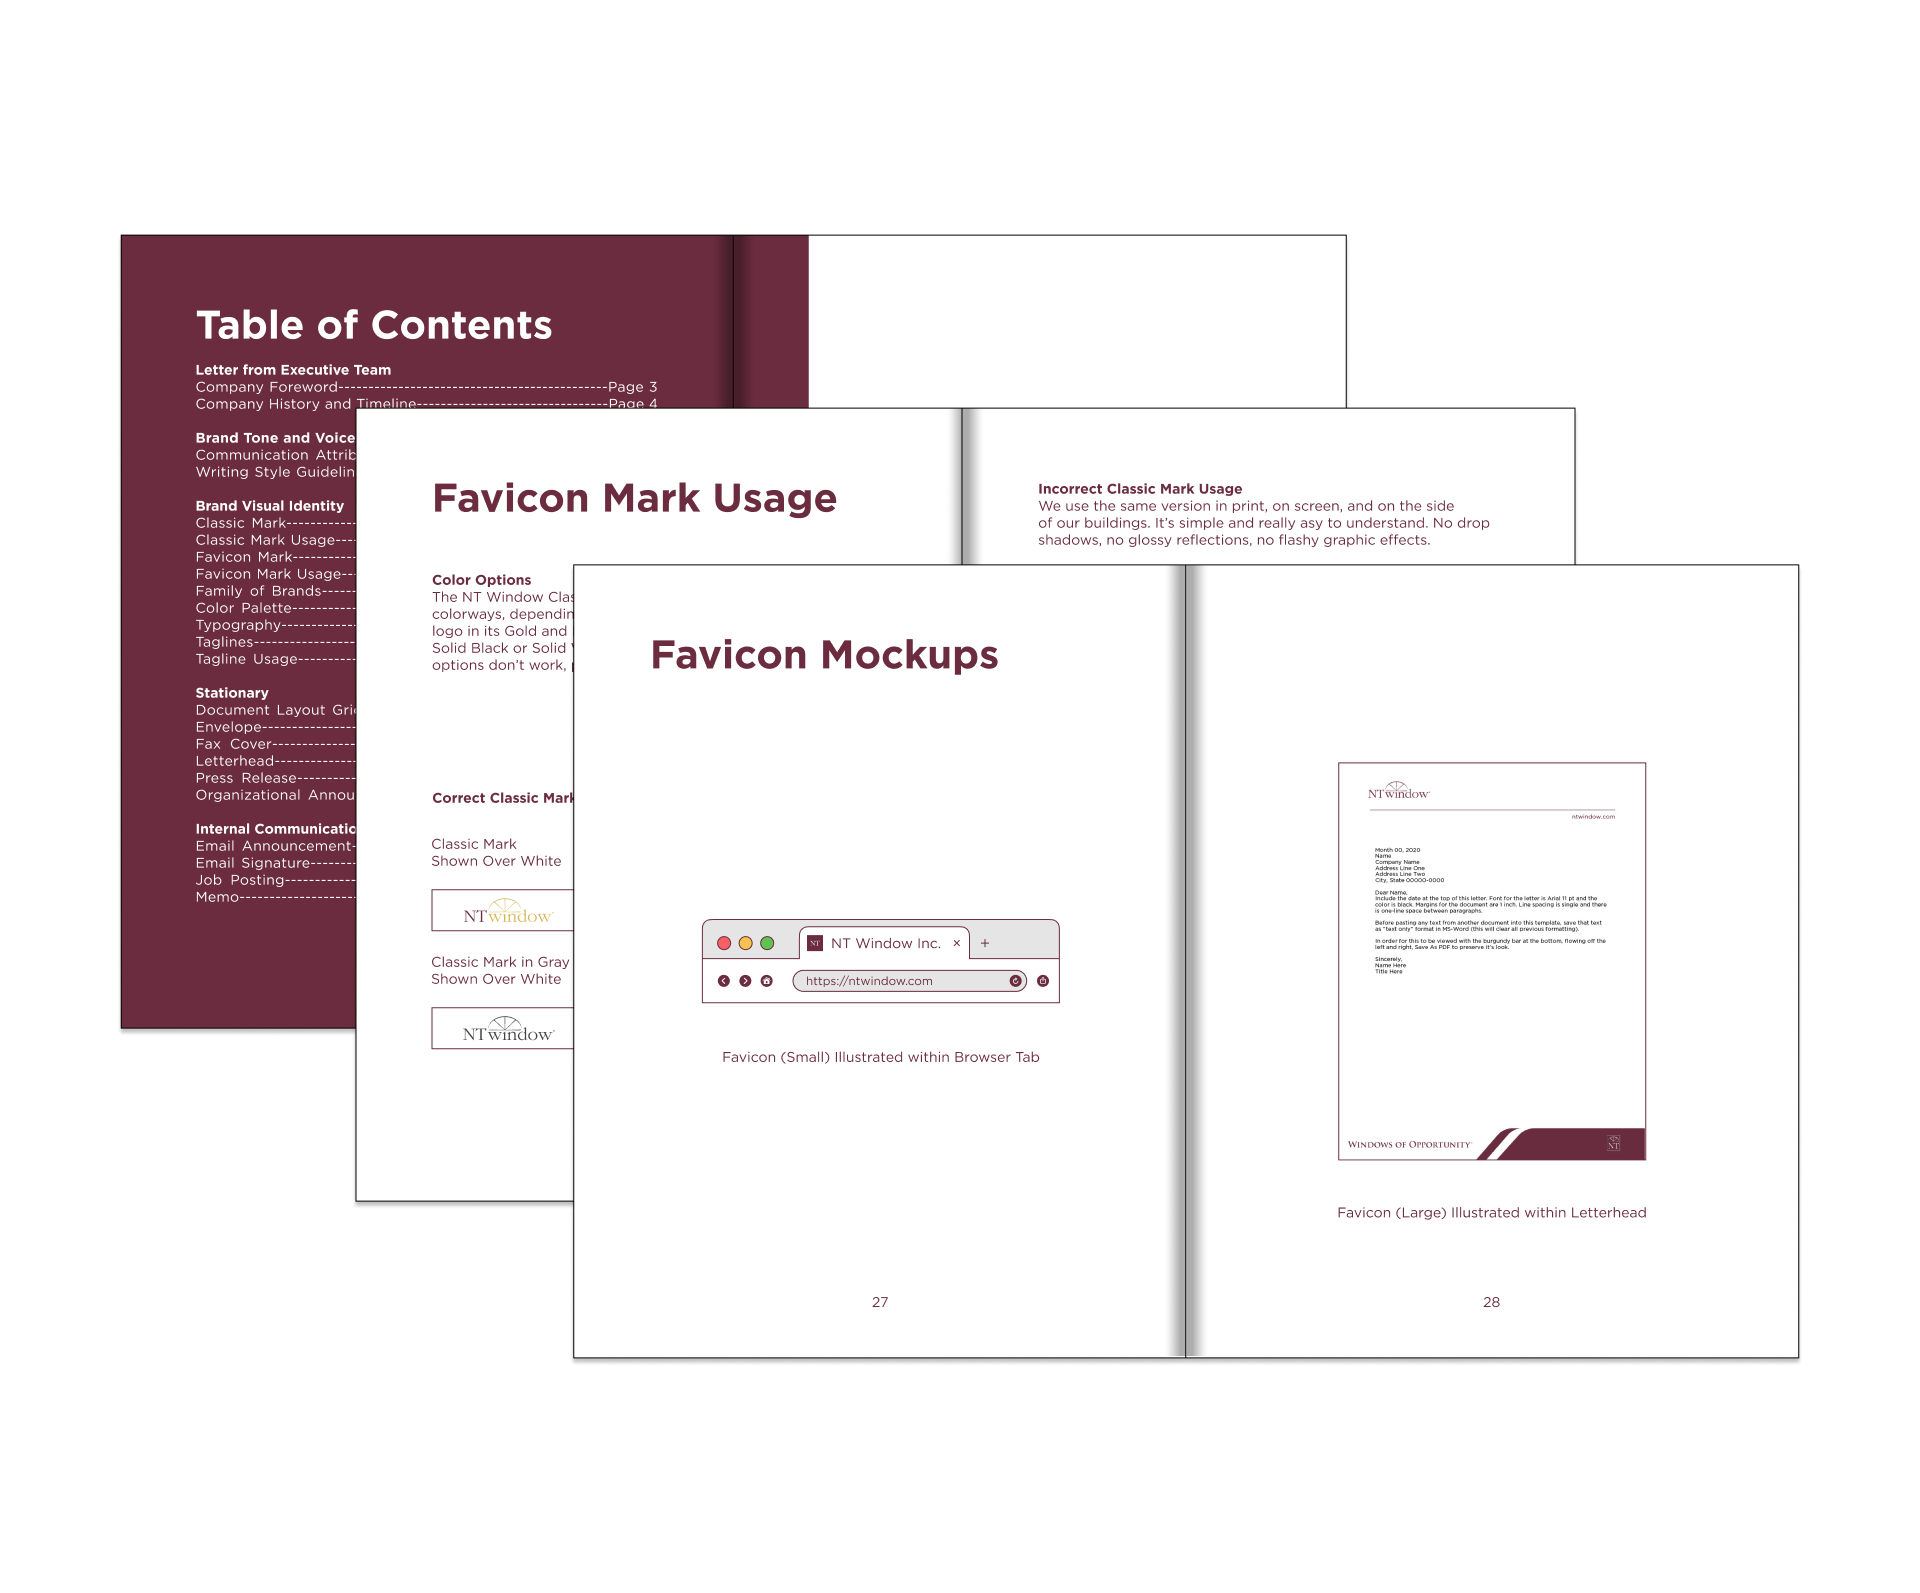
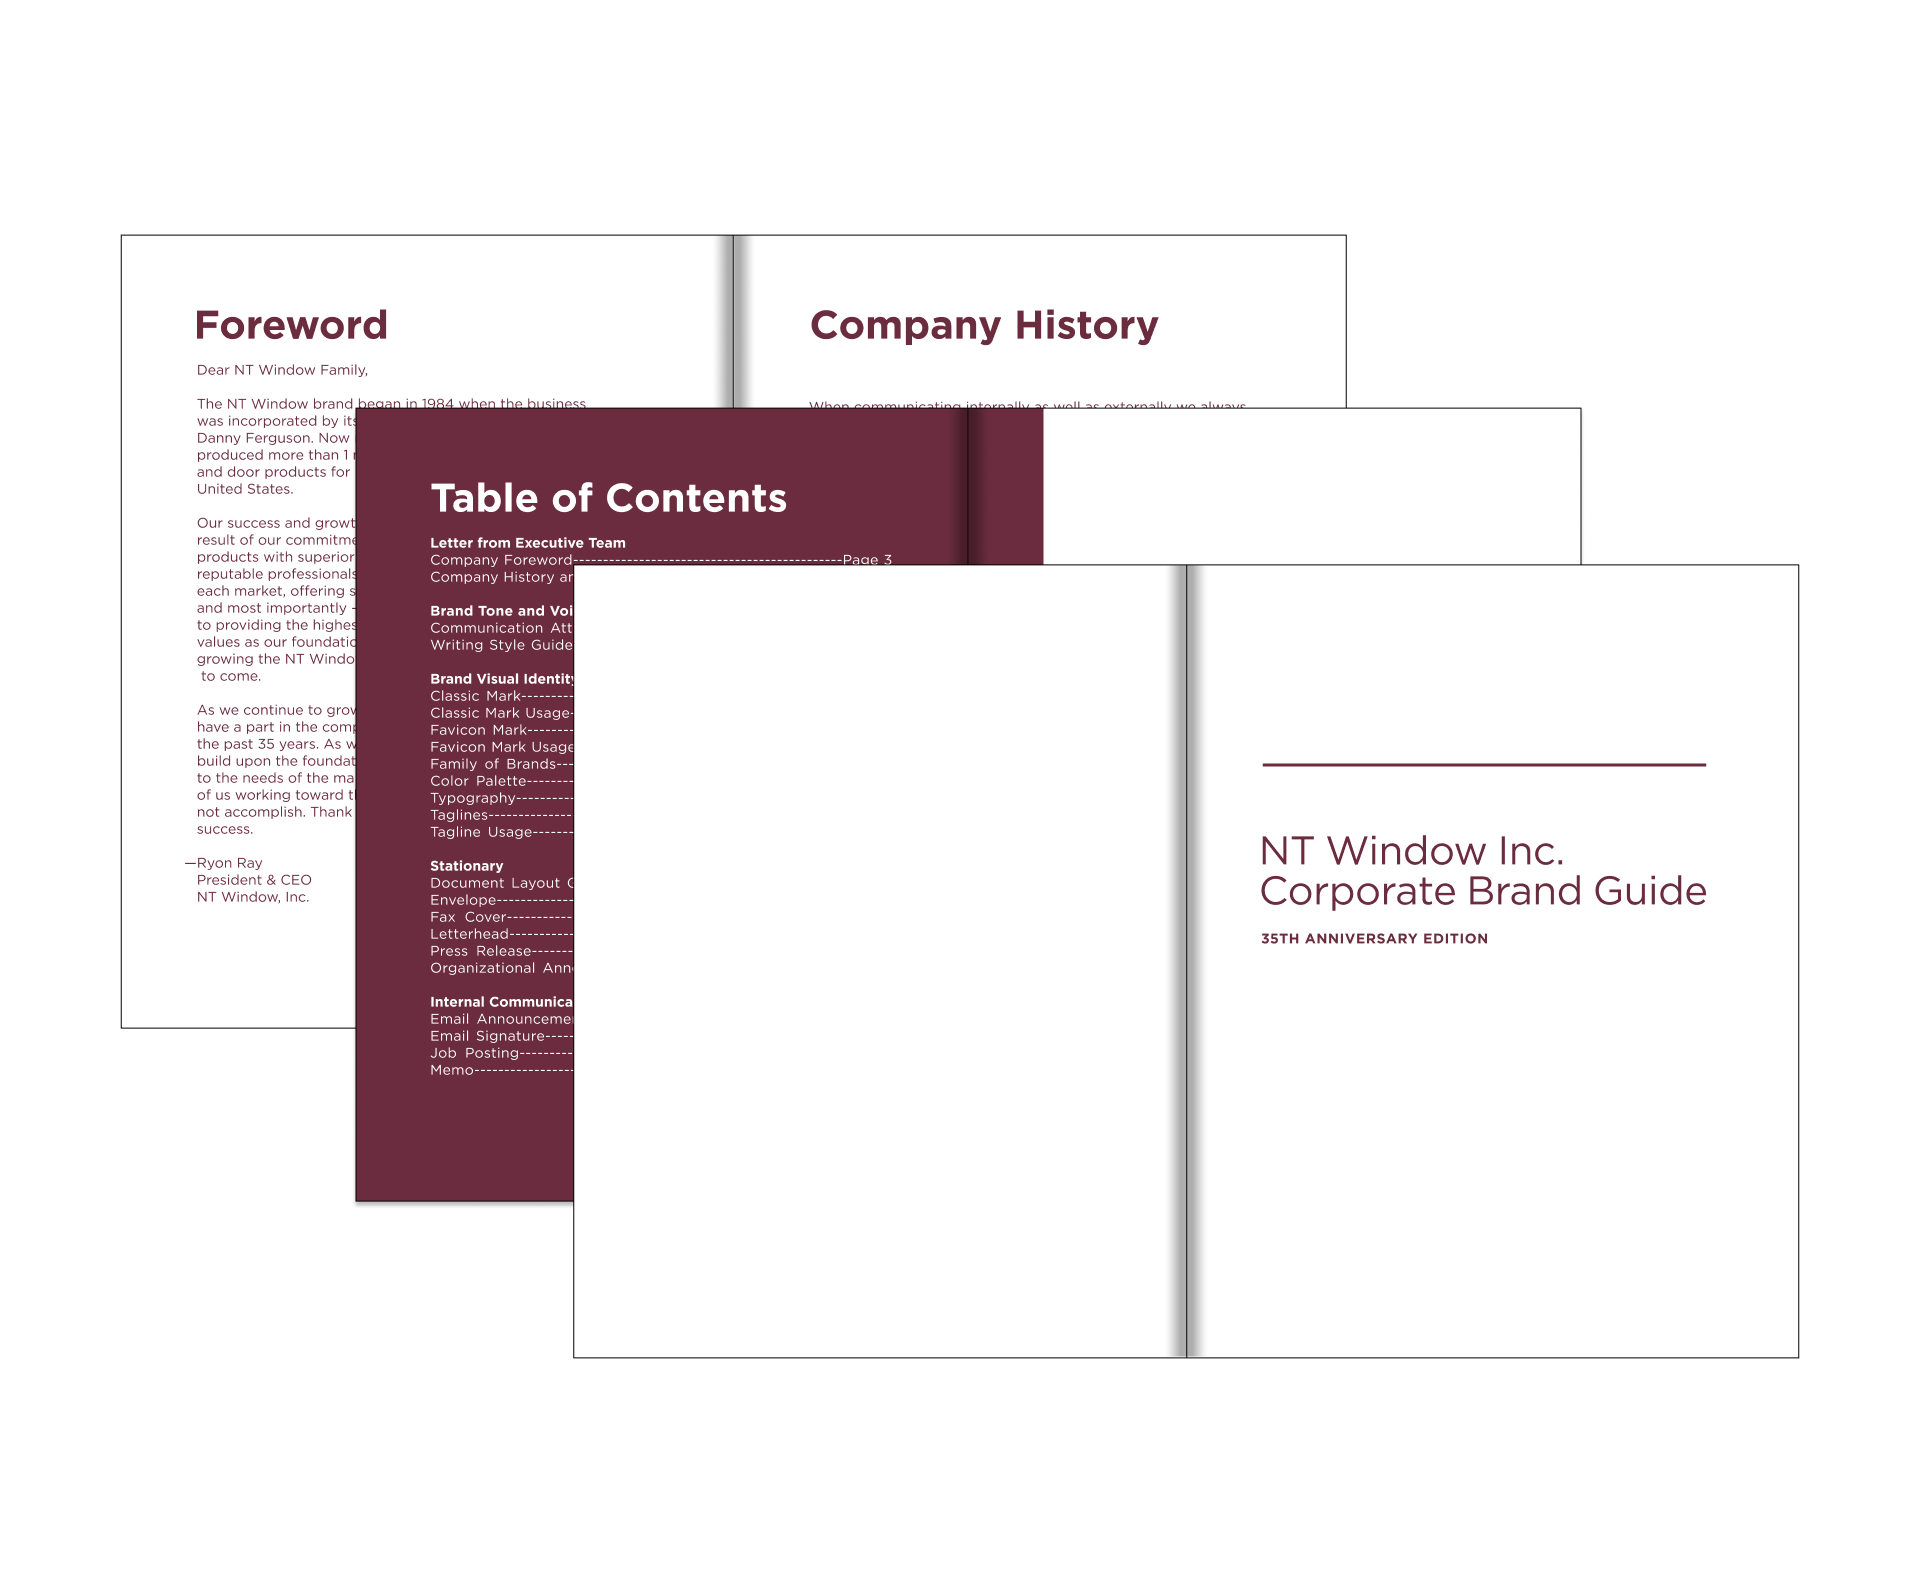
nt window update

diff --git a/projects.js b/projects.js
@@ -13,6 +13,8 @@ const projects = [
       { type: 'image', url: 'assets/ntwindow2.png' },
       { type: 'image', url: 'assets/ntwindow3.png' },
       { type: 'image', url: 'assets/ntwindow4.png' },
+      { type: 'image', url: 'assets/ntwindow5.png' },
+      { type: 'image', url: 'assets/ntwindow6.png' },
       { type: 'text', content: 'The identity has since become a cornerstone of NT Window visually, appearing across all touchpoints from digital platforms to physical signage and merchandise.' }
     ]
   },
